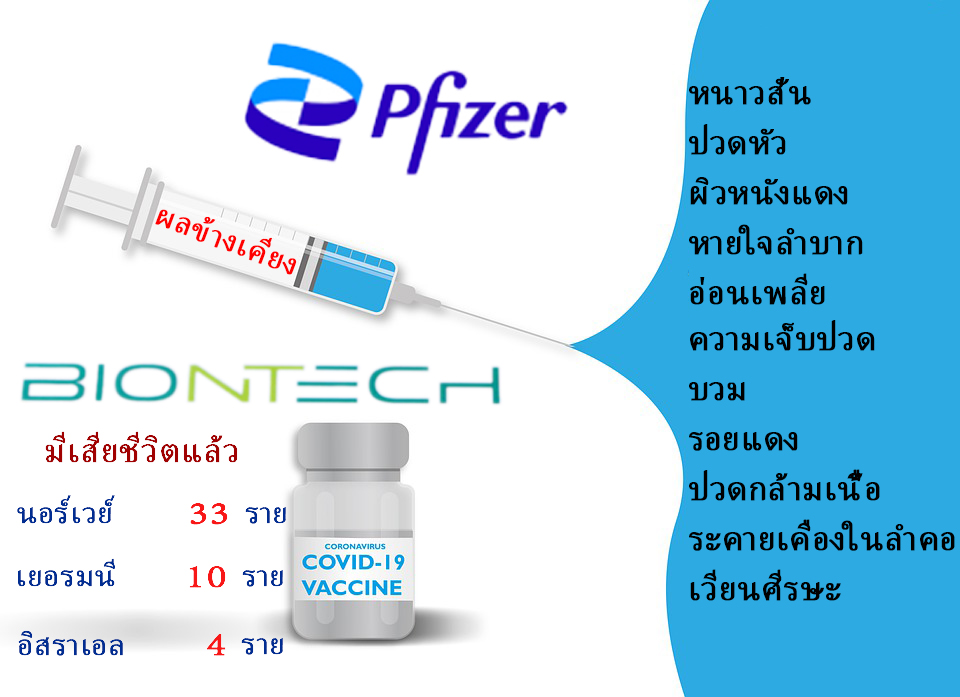
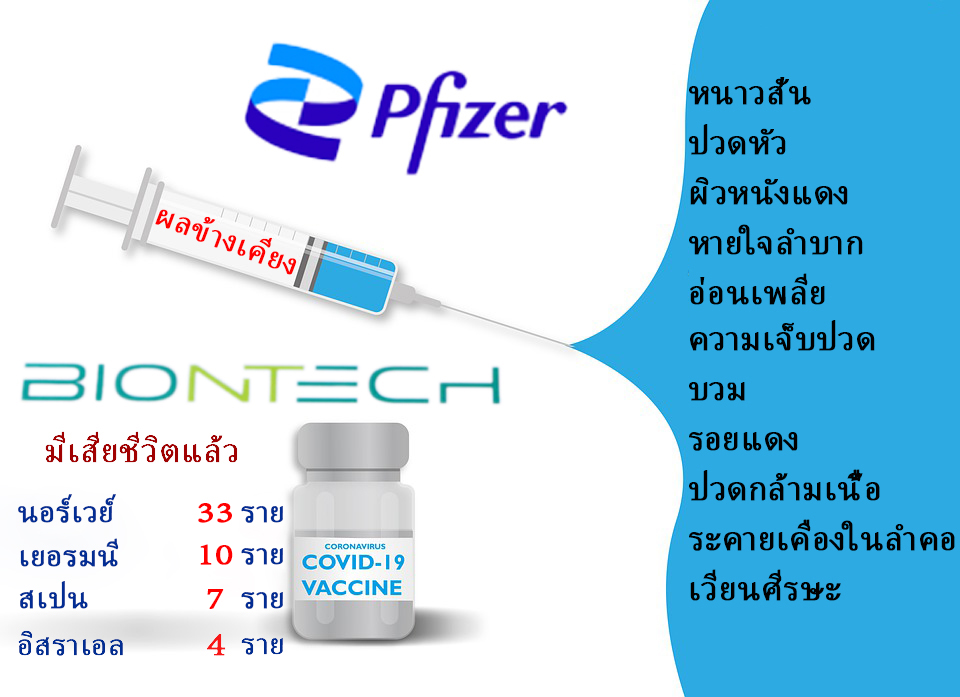
#

diff --git a/index.html b/index.html
@@ -167,7 +167,7 @@
         <div class="content">
             <p><strong>1.ความเป็นมา</strong><br>วัคซีนโควิดไฟเซอร์  (Pfizer-covid vaccine)  มีชื่อทางการว่า  BNT162b2 เป็นวัคซีนป้องกันโรคโควิด-19 ที่คิดค้นโดยบริษัทไฟเซอร์  (Pfizer)  ร่วมกับบริษัทสัญชาติเยอรมันชื่อไบโอเอ็นเท็ค (BioNTech) จากการศึกษาวัคซีนไฟเซอร์กับผู้อาสาสมัครกว่า 43,000 คนพบว่าวัคซีนไฟเซอร์มีประสิทธิภาพถึง  95%  ซึ่งสูงกว่าที่องค์การอาหารและยาสหรัฐ  (Food and Drug Administration: FDA)  ตั้งไว้ในการอนุมัติฉุกเฉินอยู่ที่  50%  และวัคซีนโควิดไฟเซอร์ฉีดทั้งหมด 2โดส โดยโดสที่ 2 ห่างจากเข็มแรก 21 วัน ใช้วิธีการฉีดเข้ากล้ามเนื้อแขนด้านบน  </p>
 <p><img src="/images/1.png"></p>
-<p><strong>2.ลข้างเคียงและเสียชีวิต 47 รายหลังฉีดวัคซีนโควิดไฟเซอร์</strong><br>วัคซีนโควิดไฟเซอร์เป็นธรรมดาของวัคซีนหลายชนิดที่อาจส่งผลข้างเคียงได้ วัคซีนโควิดไฟเซอร์เองก็เช่นกัน<br>-บางรายเกิดอาการแพ้รุนแรง ผิวหนังแดงและ<strong>หายใจลำบาก</strong><br>-ชาวอเมริกันที่ได้รับวัคซีนส่วนใหญ่มีอาการปวดบริเวณที่ฉีดวัคซีน อ่อนเพลีย ปวดศีรษะ และปวดกล้ามเนื้อ<br>-ส่วนผู้ที่มีอาการข้างเคียงรุนแรงหลังได้รับวัคซีนของบริษัท Pfizer/BioNTech เช่น ที่รัฐอะแลสกา จำนวน ๒ คน มีอาการหายใจลำบาก หน้าแดง ระคายเคืองในลำคอ และเวียนศีรษะ<br>-ตั้งแต่ปีที่แล้วจนถึงบจุบันมีเสียชีวิตแล้ว 47 รายหลังฉีดวัคซีนโควิดไฟเซอร์ เช่นอิสราเอลมีผู้เสียชีวิตแล้ว 4 ราย และนอร์เวย์มีผู้เสียชีวิตแล้ว 33 ราย และเยอรมนีมีผู้เสียชีวิตแล้ว10 ราย</p>
+<p><strong>2.ลข้างเคียงและเสียชีวิต 54 รายหลังฉีดวัคซีนโควิดไฟเซอร์</strong><br>วัคซีนโควิดไฟเซอร์เป็นธรรมดาของวัคซีนหลายชนิดที่อาจส่งผลข้างเคียงได้ วัคซีนโควิดไฟเซอร์เองก็เช่นกัน<br>-บางรายเกิดอาการแพ้รุนแรง ผิวหนังแดงและ<strong>หายใจลำบาก</strong><br>-ชาวอเมริกันที่ได้รับวัคซีนส่วนใหญ่มีอาการปวดบริเวณที่ฉีดวัคซีน อ่อนเพลีย ปวดศีรษะ และปวดกล้ามเนื้อ<br>-ส่วนผู้ที่มีอาการข้างเคียงรุนแรงหลังได้รับวัคซีนของบริษัท Pfizer/BioNTech เช่น ที่รัฐอะแลสกา จำนวน ๒ คน มีอาการหายใจลำบาก หน้าแดง ระคายเคืองในลำคอ และเวียนศีรษะ<br>-ตั้งแต่ปีที่แล้วจนถึงบจุบันมีเสียชีวิตแล้ว 54 รายหลังฉีดวัคซีนโควิดไฟเซอร์ เช่นอิสราเอลมีผู้เสียชีวิตแล้ว 4 ราย และนอร์เวย์มีผู้เสียชีวิตแล้ว 33 ราย และเยอรมนีมีผู้เสียชีวิตแล้ว10 รายและสเปนมีผู้เสียชีวิตแล้ว 7 ราย</p>
 <p><img src="/images/2.jpg"></p>
 <p><strong>3.ประสิทธิภาพป้องกันการติดเชื้อมีเพียงแค่ 33%</strong><br>เมื่อวันที่ 26 ม.ค. 64 รมว. สธ. ฝศ. ร่วมกับ ปธ. สภาฯกำหนดทิศทางของยุทธศาสตร์การฉีดวัคซีนได้แถลงข่าวเกี่ยวกับการฉีดวัคซีนต้าน covid-19 ใน ฝศ.ว่าจากผลการศึกษาเบื้องต้นในกลุ่มผู้ที่มีอายุมากกว่า 60 ปีซึ่งได้รับการฉีดวัคซีนโดสแรกของบริษัทPfizer-BioNTech ไปแล้วที่อิสราเอล พบว่าประสิทธิภาพในการป้องกันการติดเชื้อมีเพียง    33% ขณะที่บริษัท PfizerBioNTech เคยแจ้งว่าหลังการฉีดวัคซีนโดสแรกจะมีประสิทธิภาพป้องกันได้ 50%</p>
 <p><img src="/images/3.jpg"></p>

diff --git a/2021/02/08/เรื่องเกี่ยวกับวัคซีนโควิดไฟเซอร์ที่้เราควรรู้/index.html b/2021/02/08/เรื่องเกี่ยวกับวัคซีนโควิดไฟเซอร์ที่้เราควรรู้/index.html
@@ -170,7 +170,7 @@
         <!-- Post Content -->
         <p><strong>1.ความเป็นมา</strong><br>วัคซีนโควิดไฟเซอร์  (Pfizer-covid vaccine)  มีชื่อทางการว่า  BNT162b2 เป็นวัคซีนป้องกันโรคโควิด-19 ที่คิดค้นโดยบริษัทไฟเซอร์  (Pfizer)  ร่วมกับบริษัทสัญชาติเยอรมันชื่อไบโอเอ็นเท็ค (BioNTech) จากการศึกษาวัคซีนไฟเซอร์กับผู้อาสาสมัครกว่า 43,000 คนพบว่าวัคซีนไฟเซอร์มีประสิทธิภาพถึง  95%  ซึ่งสูงกว่าที่องค์การอาหารและยาสหรัฐ  (Food and Drug Administration: FDA)  ตั้งไว้ในการอนุมัติฉุกเฉินอยู่ที่  50%  และวัคซีนโควิดไฟเซอร์ฉีดทั้งหมด 2โดส โดยโดสที่ 2 ห่างจากเข็มแรก 21 วัน ใช้วิธีการฉีดเข้ากล้ามเนื้อแขนด้านบน  </p>
 <p><img src="/images/1.png"></p>
-<p><strong>2.ลข้างเคียงและเสียชีวิต 47 รายหลังฉีดวัคซีนโควิดไฟเซอร์</strong><br>วัคซีนโควิดไฟเซอร์เป็นธรรมดาของวัคซีนหลายชนิดที่อาจส่งผลข้างเคียงได้ วัคซีนโควิดไฟเซอร์เองก็เช่นกัน<br>-บางรายเกิดอาการแพ้รุนแรง ผิวหนังแดงและ<strong>หายใจลำบาก</strong><br>-ชาวอเมริกันที่ได้รับวัคซีนส่วนใหญ่มีอาการปวดบริเวณที่ฉีดวัคซีน อ่อนเพลีย ปวดศีรษะ และปวดกล้ามเนื้อ<br>-ส่วนผู้ที่มีอาการข้างเคียงรุนแรงหลังได้รับวัคซีนของบริษัท Pfizer/BioNTech เช่น ที่รัฐอะแลสกา จำนวน ๒ คน มีอาการหายใจลำบาก หน้าแดง ระคายเคืองในลำคอ และเวียนศีรษะ<br>-ตั้งแต่ปีที่แล้วจนถึงบจุบันมีเสียชีวิตแล้ว 47 รายหลังฉีดวัคซีนโควิดไฟเซอร์ เช่นอิสราเอลมีผู้เสียชีวิตแล้ว 4 ราย และนอร์เวย์มีผู้เสียชีวิตแล้ว 33 ราย และเยอรมนีมีผู้เสียชีวิตแล้ว10 ราย</p>
+<p><strong>2.ลข้างเคียงและเสียชีวิต 54 รายหลังฉีดวัคซีนโควิดไฟเซอร์</strong><br>วัคซีนโควิดไฟเซอร์เป็นธรรมดาของวัคซีนหลายชนิดที่อาจส่งผลข้างเคียงได้ วัคซีนโควิดไฟเซอร์เองก็เช่นกัน<br>-บางรายเกิดอาการแพ้รุนแรง ผิวหนังแดงและ<strong>หายใจลำบาก</strong><br>-ชาวอเมริกันที่ได้รับวัคซีนส่วนใหญ่มีอาการปวดบริเวณที่ฉีดวัคซีน อ่อนเพลีย ปวดศีรษะ และปวดกล้ามเนื้อ<br>-ส่วนผู้ที่มีอาการข้างเคียงรุนแรงหลังได้รับวัคซีนของบริษัท Pfizer/BioNTech เช่น ที่รัฐอะแลสกา จำนวน ๒ คน มีอาการหายใจลำบาก หน้าแดง ระคายเคืองในลำคอ และเวียนศีรษะ<br>-ตั้งแต่ปีที่แล้วจนถึงบจุบันมีเสียชีวิตแล้ว 54 รายหลังฉีดวัคซีนโควิดไฟเซอร์ เช่นอิสราเอลมีผู้เสียชีวิตแล้ว 4 ราย และนอร์เวย์มีผู้เสียชีวิตแล้ว 33 ราย และเยอรมนีมีผู้เสียชีวิตแล้ว10 รายและสเปนมีผู้เสียชีวิตแล้ว 7 ราย</p>
 <p><img src="/images/2.jpg"></p>
 <p><strong>3.ประสิทธิภาพป้องกันการติดเชื้อมีเพียงแค่ 33%</strong><br>เมื่อวันที่ 26 ม.ค. 64 รมว. สธ. ฝศ. ร่วมกับ ปธ. สภาฯกำหนดทิศทางของยุทธศาสตร์การฉีดวัคซีนได้แถลงข่าวเกี่ยวกับการฉีดวัคซีนต้าน covid-19 ใน ฝศ.ว่าจากผลการศึกษาเบื้องต้นในกลุ่มผู้ที่มีอายุมากกว่า 60 ปีซึ่งได้รับการฉีดวัคซีนโดสแรกของบริษัทPfizer-BioNTech ไปแล้วที่อิสราเอล พบว่าประสิทธิภาพในการป้องกันการติดเชื้อมีเพียง    33% ขณะที่บริษัท PfizerBioNTech เคยแจ้งว่าหลังการฉีดวัคซีนโดสแรกจะมีประสิทธิภาพป้องกันได้ 50%</p>
 <p><img src="/images/3.jpg"></p>
